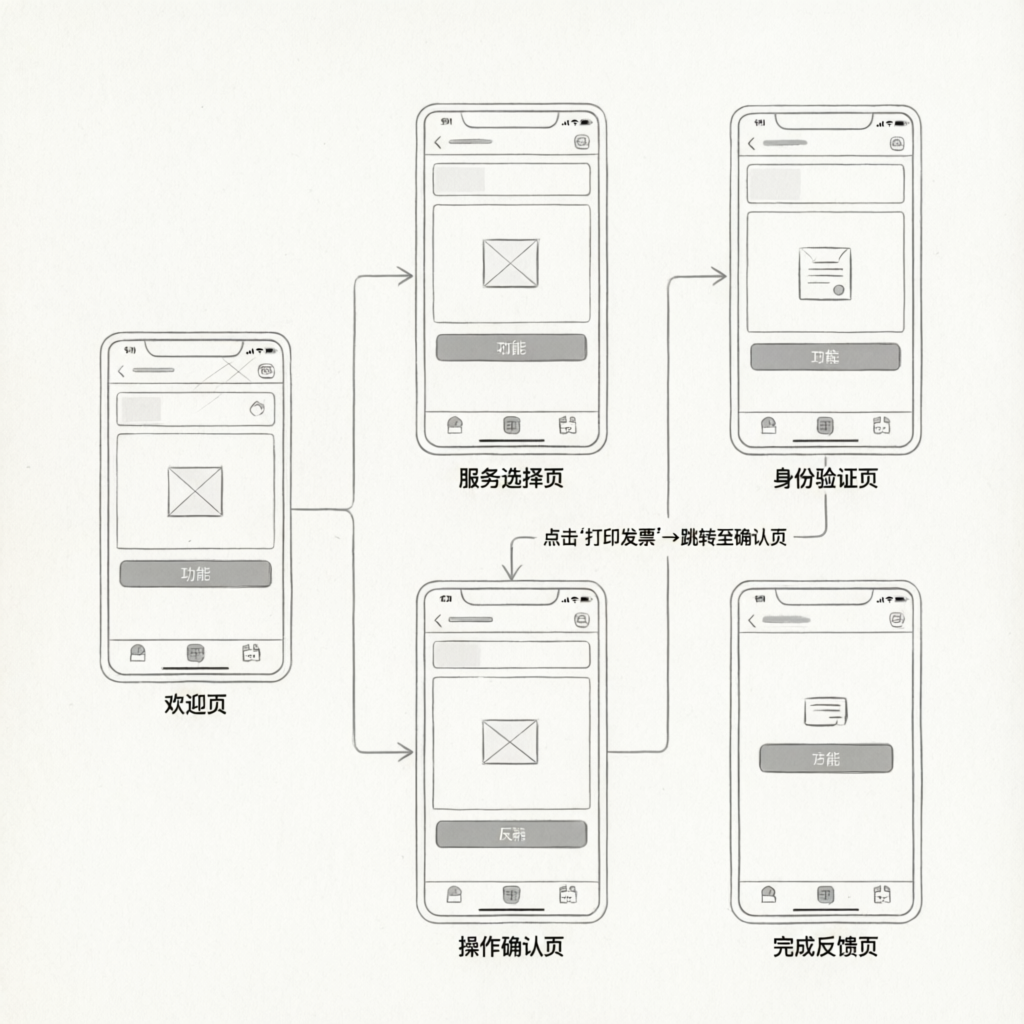
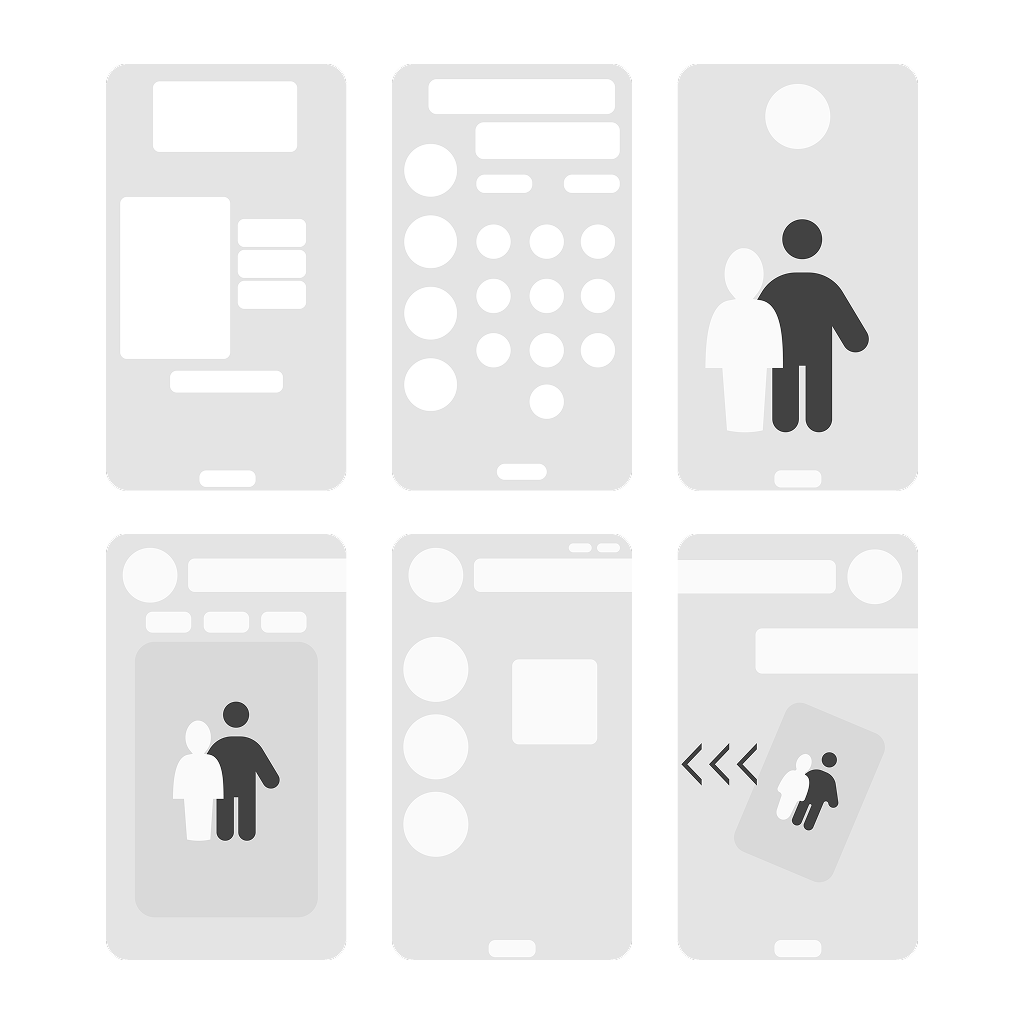
Finalizações no Totem de Fotos

diff --git a/cases/totem-fotos/totem-fotos.html b/cases/totem-fotos/totem-fotos.html
@@ -227,20 +227,20 @@
     
     <div class="results">
       <div class="result">
-        <b>+TEMPO</b>
-        <span>Aumento no tempo de permanência do público no estande</span>
+        <b>AUMENTO</b>
+        <span>no tempo de permanência do público no estande.</span>
       </div>
       <div class="result">
-        <b>HIGH</b>
-        <span>Taxa de conversão entre "foto tirada" e "foto impressa"</span>
+        <b>ALTA</b>
+        <span>taxa de conversão entre "foto tirada" e "foto impressa".</span>
       </div>
       <div class="result">
-        <b>4+</b>
-        <span>Marcas atendidas (Santos FC, Corinthians, Chiquititas, Hello Kitty)</span>
+        <b>+ DE 10</b>
+        <span>Marcas atendidas (Flamengo,Santos FC, Corinthians, Chiquititas, Hello Kitty, Selka, Fórmula 1, Shoppings de São Paulo e entre outros.)</span>
       </div>
     </div>
 
-    <h3 style="font-size:1rem;margin-top:1.6rem">Feedback qualitativo</h3>
+    <h3 style="font-size:1rem;margin-top:1.6rem">Feedback </h3>
     <p>Relatos de usuários destacando a <b>facilidade do processo</b> e a satisfação em levar uma recordação física personalizada com uma experiência de realidade aumentada.</p>
   </section>
 

diff --git a/styles.css b/styles.css
@@ -615,6 +615,7 @@ body.loaded .hero-title .line > span {
 
 .sec {
   position: relative;
+  padding: 25px 0;
 }
 
 .plus {
@@ -651,9 +652,7 @@ body.loaded .hero-title .line > span {
   justify-content: space-between;
   gap: 1.4rem;
   flex-wrap: wrap;
-  border-top: 1px solid var(--line2);
-  padding-top: 1.1rem;
-  margin-bottom: 20px;
+  margin-bottom: 10px;
 }
 
 .sec-head--about {
